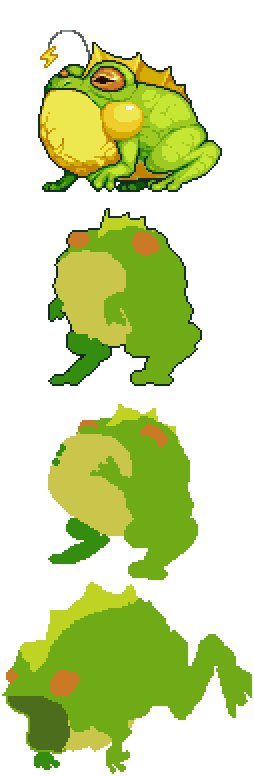
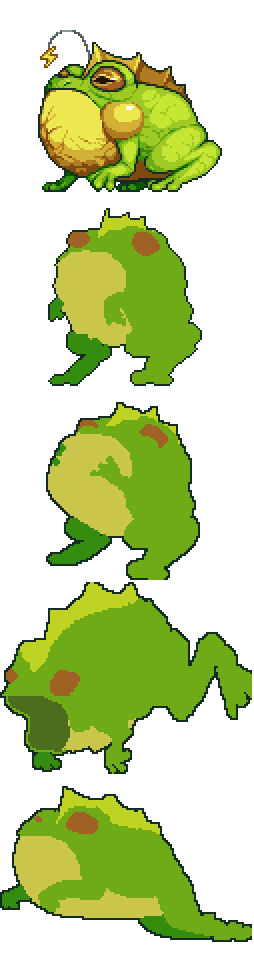
uh oh! extra day

diff --git a/NPCs/Tubble/Attacks/WakeUpAttack.cs b/NPCs/Tubble/Attacks/WakeUpAttack.cs
@@ -1,4 +1,5 @@
 using Bossjam.NPCs.Attacks;
+using Microsoft.Xna.Framework;
 using System;
 using Terraria;
 
@@ -13,6 +14,7 @@ namespace Bossjam.NPCs.Tubble.Attacks
             npc.npc.ai[0]++;
 
             float timer = npc.npc.ai[0];
+            TubbleBoss tubble = npc as TubbleBoss;
 
             if (timer == 60)
             {
@@ -22,23 +24,41 @@ namespace Bossjam.NPCs.Tubble.Attacks
             }
             else if (timer > 60 && npc.npc.ai[1] == 0)
             {
-                npc.npc.noTileCollide = npc.npc.velocity.Y < 0 || !(npc as TubbleBoss).OnGround();
+                npc.npc.noTileCollide = npc.npc.velocity.Y < 0 || !tubble.OnGround();
                 npc.npc.velocity.X = _xVel;
                 npc.npc.spriteDirection = Math.Sign(npc.npc.velocity.X);
+
+                if (npc.npc.velocity.Y < 2)
+                    tubble.SetFrame(4);
+                else
+                    tubble.SetFrame(3);
 
                 if (npc.npc.velocity.Y > 0)
                     npc.npc.velocity.Y *= 1.05f;
 
-                if (!npc.npc.noTileCollide && (npc as TubbleBoss).OnGround())
+                if (!npc.npc.noTileCollide && tubble.OnGround())
                 {
                     npc.npc.ai[1] = 1;
                     npc.npc.velocity.X = 0;
 
+                    (float left, float right) = tubble.GetAdjustedSides();
+                    for (int i = 0; i < 8; ++i)
+                    {
+                        float x = MathHelper.Lerp(left, right, i / 8f);
+
+                        Vector2 vel = new Vector2(Main.rand.NextFloat(-0.2f, 0.2f), Main.rand.NextFloat(-2f, 0));
+                        Gore.NewGore(new Vector2(x, npc.npc.Bottom.Y), vel, Main.rand.Next(11, 14), Main.rand.NextFloat(0.2f, 0.5f));
+                    }
+
+                    Main.PlaySound(Terraria.ID.SoundID.DD2_OgreGroundPound, npc.npc.Bottom);
                     ScreenShakePlayer.ShakeAction(ScreenShakePlayer.DistanceShake(npc.npc.Center, 30, 3.5f, 1000));
                 }
             }
             else if (npc.npc.ai[1] > 0)
+            {
                 npc.npc.ai[1]++;
+                tubble.SetFrame(0);
+            }
         }
 
         public override bool ChooseNextAttack(BaseNPC npc) => npc.npc.ai[1] == 120;

diff --git a/NPCs/Tubble/Projectiles/TubbleTongue.cs b/NPCs/Tubble/Projectiles/TubbleTongue.cs
@@ -59,14 +59,6 @@ namespace Bossjam.NPCs.Tubble.Projectiles
 
         private void MissedAI()
         {
-            if (Collision.SolidCollision(projectile.position, projectile.width, projectile.height))
-            {
-                _contact = true;
-                _time = -180;
-
-                projectile.velocity = Vector2.Zero;
-            }
-
             if (_contact && _time <= 0)
                 _time++;
             else if (_contact && _time > 0)
@@ -116,6 +108,15 @@ namespace Bossjam.NPCs.Tubble.Projectiles
         {
             float discard = 0;
             return Collision.CheckAABBvLineCollision(targetHitbox.Location.ToVector2(), targetHitbox.Size(), SpawnOrigin, projectile.Center, 24, ref discard);
+        }
+
+        public override bool OnTileCollide(Vector2 oldVelocity)
+        {
+            _contact = true;
+            _time = -300;
+
+            projectile.velocity = Vector2.Zero;
+            return false;
         }
 
         public override bool PreDraw(SpriteBatch spriteBatch, Color lightColor)

diff --git a/NPCs/Tubble/Attacks/HopAttack.cs b/NPCs/Tubble/Attacks/HopAttack.cs
@@ -42,10 +42,8 @@ namespace Bossjam.NPCs.Tubble.Attacks
                 npc.npc.spriteDirection = Math.Sign(npc.npc.velocity.X);
                 npc.melee = npc.npc.velocity.Y > 0;
 
-                if (npc.npc.velocity.Y < -2f)
-                    tubble.SetFrame(1);
-                else if (npc.npc.velocity.Y < 2)
-                    tubble.SetFrame(0);
+                if (npc.npc.velocity.Y < 2)
+                    tubble.SetFrame(4);
                 else
                     tubble.SetFrame(3);
 
@@ -76,7 +74,7 @@ namespace Bossjam.NPCs.Tubble.Attacks
                     npc.npc.ai[2] = 1;
                     npc.npc.velocity.X = -3 * dir;
                     npc.npc.noTileCollide = false;
-                    npc.npc.StrikeNPCNoInteraction(Main.rand.Next(3, 8), 0f, -1, false, false);
+                    npc.npc.StrikeNPCNoInteraction(Main.rand.Next(16, 26), 0f, -1, false, false);
                     npc.melee = false;
 
                     tubble.lastStunDir = dir;

diff --git a/NPCs/Tubble/TubbleBoss.cs b/NPCs/Tubble/TubbleBoss.cs
@@ -17,7 +17,7 @@ namespace Bossjam.NPCs.Tubble
         {
             DisplayName.SetDefault("Tubble");
 
-            Main.npcFrameCount[npc.type] = 4;
+            Main.npcFrameCount[npc.type] = 5;
         }
 
         public override void Defaults()
@@ -30,6 +30,8 @@ namespace Bossjam.NPCs.Tubble
             npc.aiStyle = -1;
             npc.knockBackResist = 0f;
             npc.dontTakeDamage = true;
+            npc.HitSound = SoundID.NPCHit1;
+            npc.DeathSound = SoundID.NPCDeath1;
         }
 
         public override void OnHit(int hitDirection, double damage)

diff --git a/NPCs/Tubble/Projectiles/TubbleBubble.cs b/NPCs/Tubble/Projectiles/TubbleBubble.cs
@@ -41,7 +41,7 @@ namespace Bossjam.NPCs.Tubble.Projectiles
 
         public override bool OnTileCollide(Vector2 oldVelocity)
         {
-            Main.PlaySound(SoundID.Item54, projectile.position);
+            Main.PlaySound(SoundID.Item54.SoundId, (int)projectile.Center.X, (int)projectile.Center.Y, SoundID.Item54.Style, 0.5f);
 
             if (projectile.velocity.X != oldVelocity.X)
                 projectile.velocity.X = -oldVelocity.X;

diff --git a/NPCs/Tubble/Adds/MorselFly.cs b/NPCs/Tubble/Adds/MorselFly.cs
@@ -26,6 +26,8 @@ namespace Bossjam.NPCs.Tubble.Adds
             npc.aiStyle = -1;
             npc.noGravity = true;
             npc.knockBackResist = 0f;
+            npc.HitSound = SoundID.NPCHit45;
+            npc.DeathSound = SoundID.NPCDeath47;
         }
 
         public override void OnHit(int hitDirection, double damage)
